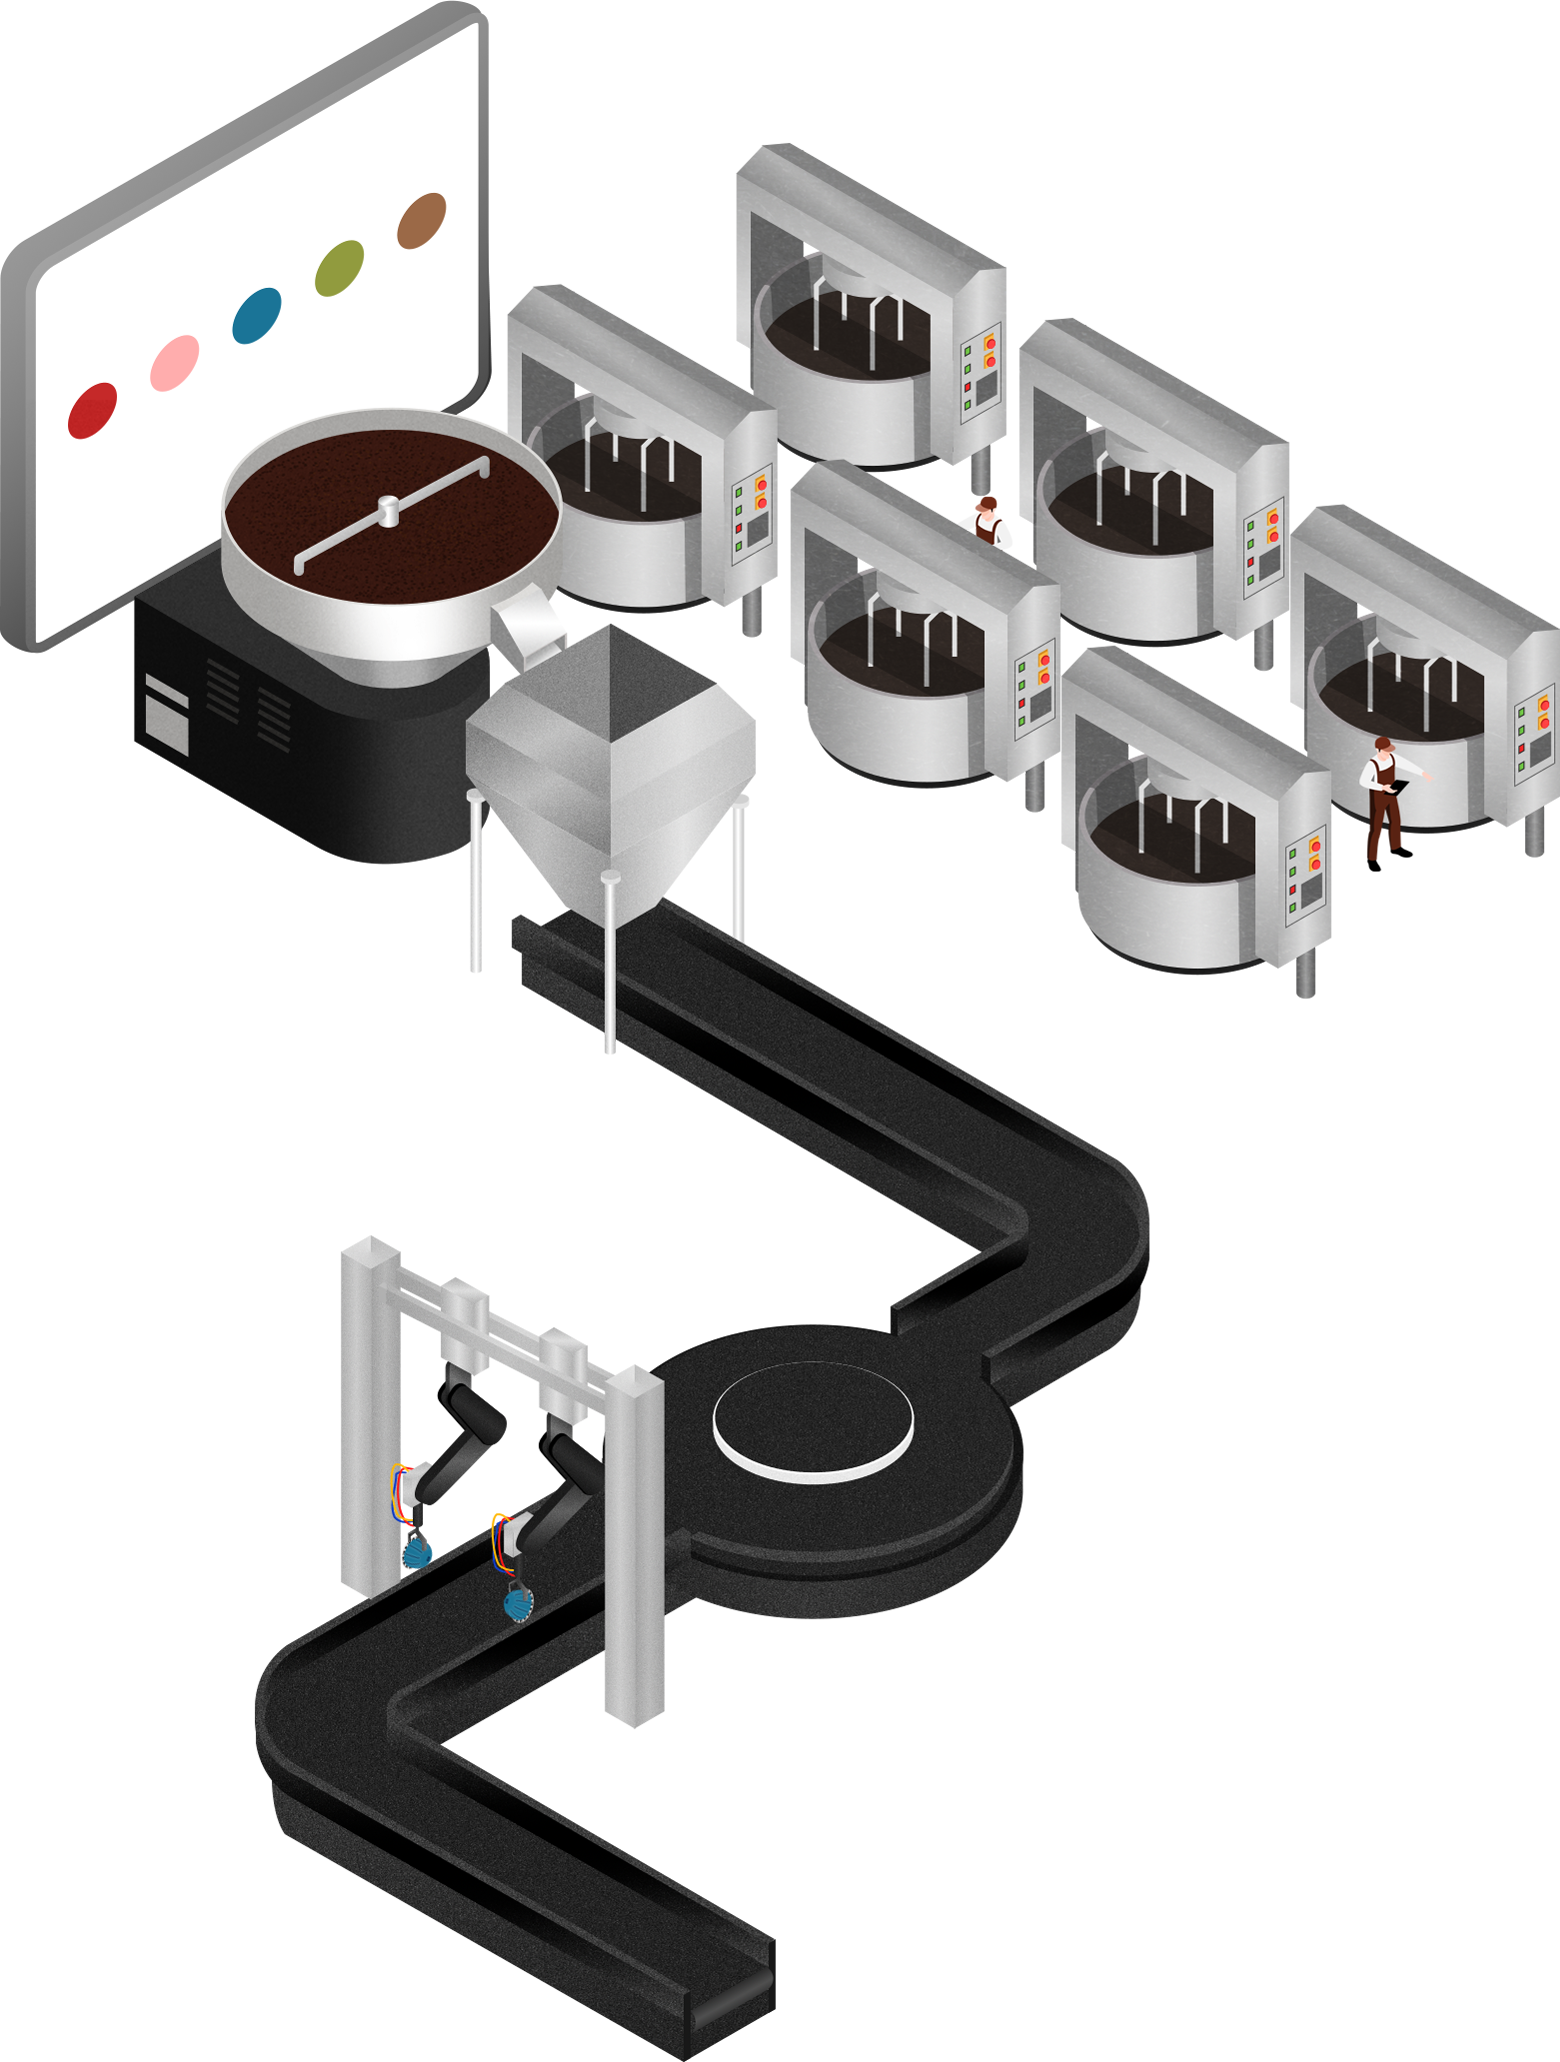
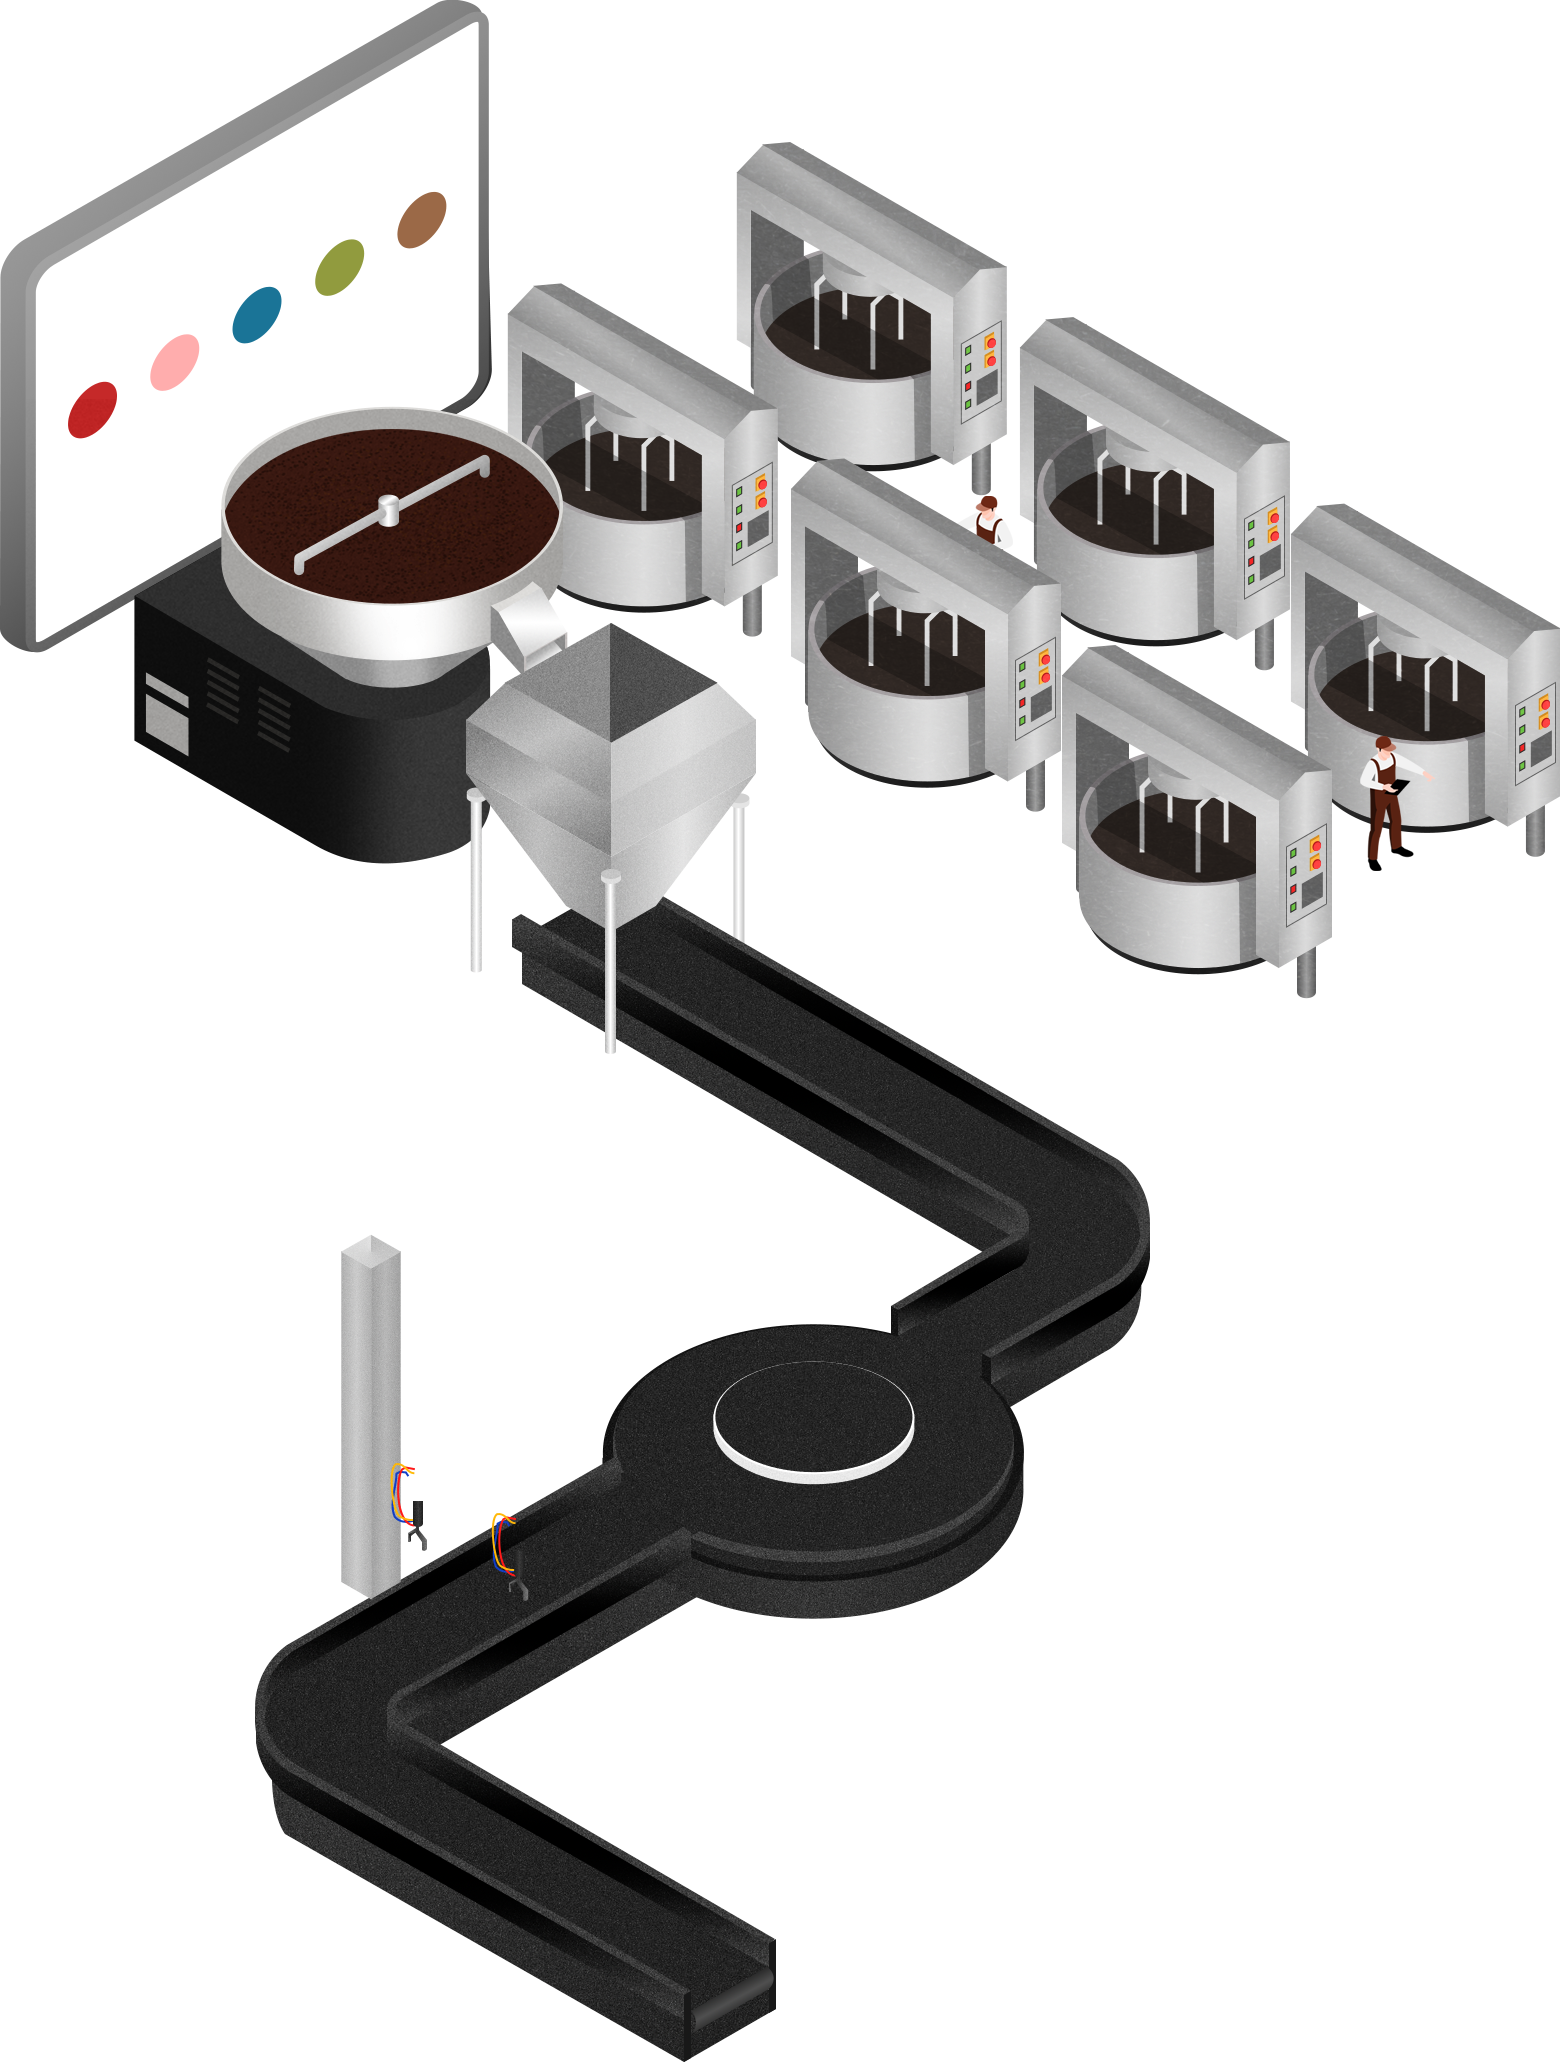
123123

diff --git a/script.js b/script.js
@@ -114,20 +114,59 @@ overlay.addEventListener('click', function () {
     recycle.style.display = 'none';
 });
 
-capclicked = document.querySelectorAll('#clicked');
-capchange = document.querySelectorAll('#capchange');
+let capclicked = document.querySelectorAll('#clicked');
+let capchange = document.querySelectorAll('#capchange img');
+let capchange2 = document.querySelectorAll('#capchange2 img');
 
-capclicked.forEach(function(clicked) {
-        clicked.addEventListener('click', function () {
-            capclicked.forEach(function (cap) {
-        cap.style.opacity = 0;
+capclicked.forEach(function (clicked) {
+    clicked.addEventListener('click', function () {
+        capclicked.forEach(function (cap) {
+            cap.style.opacity = 0;
         });
         this.style.opacity = 1;
-        console.log(this.getAttribute('class'));
-        switch(this.getAttribute('class')) {
-            case 'redchoice':
-                change.src = 'PNG/capsulered.png'; 
-            break;
+        switch (true) {
+            case this.classList.contains('redchoice'):
+                capchange.forEach(function (img) {
+                    img.src = 'PNG/capsulered.png';
+                });
+                capchange2.forEach(function (img) {
+                    img.src = 'PNG/capsulered2.png';
+                });
+                break;
+            case this.classList.contains('pinkchoice'):
+                capchange.forEach(function (img) {
+                    img.src = 'PNG/capsulepink.png';
+                });
+                capchange2.forEach(function (img) {
+                    img.src = 'PNG/capsulepink2.png';
+                });
+                break;
+            case this.classList.contains('bluechoice'):
+                capchange.forEach(function (img) {
+                    img.src = 'PNG/capsuleblue.png';
+                });
+                capchange2.forEach(function (img) {
+                    img.src = 'PNG/capsuleblue2.png';
+                });
+                break;
+            case this.classList.contains('greenchoice'):
+                capchange.forEach(function (img) {
+                    img.src = 'PNG/capsulegreen.png';
+                });
+                capchange2.forEach(function (img) {
+                    img.src = 'PNG/capsulegreen2.png';
+                });
+                break;
+            case this.classList.contains('brownchoice'):
+                capchange.forEach(function (img) {
+                    img.src = 'PNG/capsulebrown.png';
+                });
+                capchange2.forEach(function (img) {
+                    img.src = 'PNG/capsulebrown2.png';
+                });
+                break;
+            default:
+                break;
         }
     });
 });
@@ -177,54 +216,129 @@ testbtn.addEventListener('click', function () {
 
 let btncolors = document.querySelectorAll('#colors');
 let head = document.querySelector('.machinehead img');
+let joint = document.querySelector('.headjoint');
 
+let currentAnimation = null;  // 현재 진행 중인 애니메이션을 추적할 변수
+
+// 각 버튼에 클릭 이벤트를 추가합니다.
 btncolors.forEach(function (colors) {
     colors.addEventListener('click', function () {
+        // 애니메이션이 진행 중이라면 중단
+        if (currentAnimation) {
+            currentAnimation.cancel(); // 기존 애니메이션 중단
+        }
+
+        // 선택된 버튼에 색상 클래스를 추가하고 나머지 버튼에서는 제거
         btncolors.forEach(function (e) {
             e.classList.remove('colors');
         });
         colors.classList.add('colors');
-        console.log(this);
-        console.log(this.getAttribute('class'));
 
-        // if(this.getAttribute('class')=== 'pinkbtn colors'){
-        //     console.log('pink!!');
-        //     head.src = 'PNG/machine/pinkhead.png'; 
-        // }
-        switch(this.getAttribute('class')) {
-            case 'pinkbtn colors':
-                head.src = 'PNG/machine/pinkhead.png'; 
-            break;
-            case 'whitebtn colors':
-            head.src = 'PNG/machine/whitehead.png';
-            break;
-            case 'redbtn colors':
-            head.src = 'PNG/machine/redhead.png';
-            break;
-            case 'blackbtn colors':
-            head.src = 'PNG/machine/blackhead.png';
-            break;
-            case 'yellowbtn colors':
-            head.src = 'PNG/machine/yellowhead.png';
-            break;
-            case 'bluebtn colors':
-            head.src = 'PNG/machine/bluehead.png';
-            break;
-            case 'greenbtn colors':
-            head.src = 'PNG/machine/greenhead.png';
-            break;
-        }
-        /*
-            this getAttribute class가져와서
-            class이름이 whitebtn 이면 뚜껑을 white.png
-
-            switch case문
-        */
+        // 클릭된 버튼에 해당하는 애니메이션 실행
+        jointmove1();
     });
 });
 
-// if (pinkbtn.style.opacity == 0) {
-    
-// } else {
-//     pinkbtn.style.opacity = 1;
-// };
+function jointmove1() {
+    currentAnimation = joint.animate([
+        { transform: 'translate(0, 0)' },             // 초기 위치
+        { transform: 'translate(0, 287px)' }          // 287px 내려옴
+    ], {
+        duration: 5000,
+        easing: 'ease',
+        fill: 'forwards'
+    }).onfinish = function () {
+        jointmove2(); // 다음 실행
+    };
+}
+
+function jointmove2() {
+    currentAnimation = joint.animate([
+        { transform: 'translate(0, 287px)' },         // 내려온 상태에서 시작
+        { transform: 'translate(0, 0)' }             // 287px 올라감
+    ], {
+        duration: 5000,
+        easing: 'ease',
+        fill: 'forwards'
+    }).onfinish = function () {
+        jointmove3(); // 다음 실행
+    };
+
+    currentAnimation = head.animate([
+        { transform: 'translate(0, 0)' },             // 처음 위치에서 시작
+        { transform: 'translate(0, -287px)' }         // 287px 올라감
+    ], {
+        duration: 5000,
+        easing: 'ease',
+        fill: 'forwards'
+    });
+}
+
+function jointmove3() {
+    // head.src 변경은 jointmove3가 시작되기 전에 처리
+    const activeButton = document.querySelector('.colors');
+    switch (activeButton.classList[0]) {
+        case 'pinkbtn':
+            head.src = 'PNG/machine/pinkhead.png';
+            break;
+        case 'whitebtn':
+            head.src = 'PNG/machine/whitehead.png';
+            break;
+        case 'redbtn':
+            head.src = 'PNG/machine/redhead.png';
+            break;
+        case 'blackbtn':
+            head.src = 'PNG/machine/blackhead.png';
+            break;
+        case 'yellowbtn':
+            head.src = 'PNG/machine/yellowhead.png';
+            break;
+        case 'bluebtn':
+            head.src = 'PNG/machine/bluehead.png';
+            break;
+        case 'greenbtn':
+            head.src = 'PNG/machine/greenhead.png';
+            break;
+        default:
+            break;
+    }
+
+    currentAnimation = joint.animate([
+        { transform: 'translate(0, 0)' },             // 올라간 상태에서 시작
+        { transform: 'translate(0, 287px)' }          // 다시 287px 내려옴
+    ], {
+        duration: 5000,
+        easing: 'ease',
+        fill: 'forwards'
+    }).onfinish = function () {
+        jointmove4(); // 다음 실행
+    };
+
+    currentAnimation = head.animate([
+        { transform: 'translate(0, -287px)' },         // head가 올라간 상태에서 시작
+        { transform: 'translate(0, 0)' }               // head도 내려옴
+    ], {
+        duration: 5000,
+        easing: 'ease',
+        fill: 'forwards'
+    });
+}
+
+function jointmove4() {
+    currentAnimation = joint.animate([
+        { transform: 'translate(0, 287px)' },         // 내려온 상태에서 시작
+        { transform: 'translate(0, 0)' }             // 원래 위치로 올라감
+    ], {
+        duration: 5000,
+        easing: 'ease',
+        fill: 'forwards'
+    });
+
+    currentAnimation = head.animate([
+        { transform: 'translate(0, -287px)' },         // 287px 올라간 상태에서 시작
+        { transform: 'translate(0, 0)' }               // head는 그대로 내려옴
+    ], {
+        duration: 0,
+        fill: 'forwards'
+    });
+}

diff --git a/index.html b/index.html
@@ -333,8 +333,17 @@
                     <div id="capchange2" class="capsulebig5">
                         <img src="PNG/capsuleblue2.png" alt="큰캡슐5">
                     </div>
-                    <div class="machinearm">
-                        <img src="PNG/machinearm.png" alt="로봇팔">
+                    <div id="capchange" class="capsule43">
+                        <img src="PNG/capsuleblue.png" alt="캡슐18">
+                    </div>
+                    <div id="capchange" class="capsule44">
+                        <img src="PNG/capsuleblue.png" alt="캡슐19">
+                    </div>
+                    <div class="machinearm1">
+                        <img src="PNG/machinearm1.png" alt="로봇팔">
+                    </div>
+                    <div class="machinearm2">
+                        <img src="PNG/machinearm2.png" alt="로봇팔">
                     </div>
                 </div>
             </div>
@@ -448,7 +457,7 @@
         </div>
         <div class="coffeeshot">
             <svg class="clippath" version="1.1" id="coffeeshape" xmlns="http://www.w3.org/2000/svg"
-                xmlns:xlink="http://www.w3.org/1999/xlink" x="0px" y="0px" width="65px" height="50px";
+                xmlns:xlink="http://www.w3.org/1999/xlink" x="0px" y="0px" width="65px" height="50px" ;
                 xml:space="preserve">
                 <path class="st0" d="M48.74,0H0v55.62l3.91,0.53c13.58,1.82,27.34,1.82,40.92,0l3.91-0.53V0z" />
             </svg>

diff --git a/css/style.css b/css/style.css
@@ -1210,9 +1210,15 @@ html {
     }
 }
 
-.machinearm {
+.machinearm1 {
     position: absolute;
-    left: 341px;
+    left: 403px;
+    bottom: 461px;
+}
+
+.machinearm2 {
+    position: absolute;
+    left: 378px;
     bottom: 333px;
 }
 
@@ -1221,6 +1227,18 @@ html {
     left: 615px;
     bottom: 545px;
     animation: moveslider10 5s linear infinite;
+}
+
+.capsule43 {
+    position: absolute;
+    left: 400px;
+    bottom: 495px;
+}
+
+.capsule44 {
+    position: absolute;
+    left: 500px;
+    bottom: 545px;
 }
 
 @keyframes moveslider10 {
@@ -1584,15 +1602,13 @@ html {
     position: absolute;
     left: 738px;
     bottom: 673px;
-    /* 862~673px */
     z-index: 9992;
 }
 
 .headjoint {
     position: absolute;
     left: 850px;
-    /* 850~772px */
-    bottom: 960px;
+    bottom: 1059px;
     z-index: 9991;
 }
 
